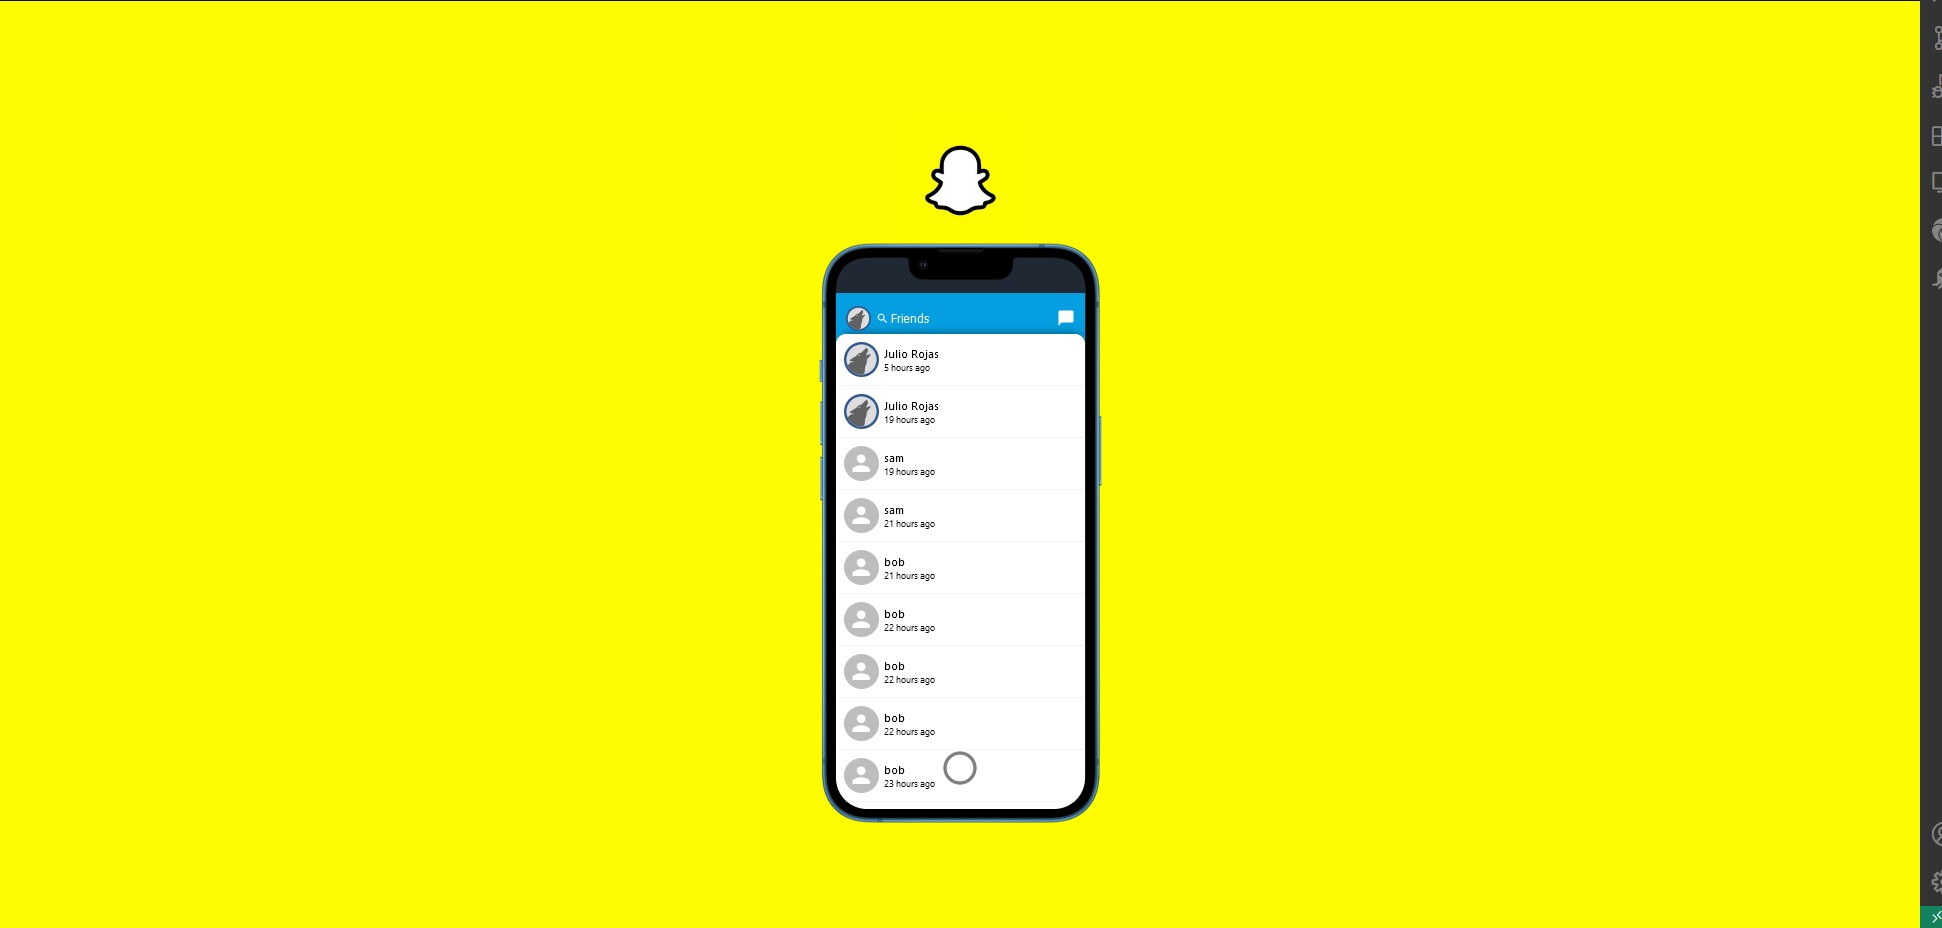
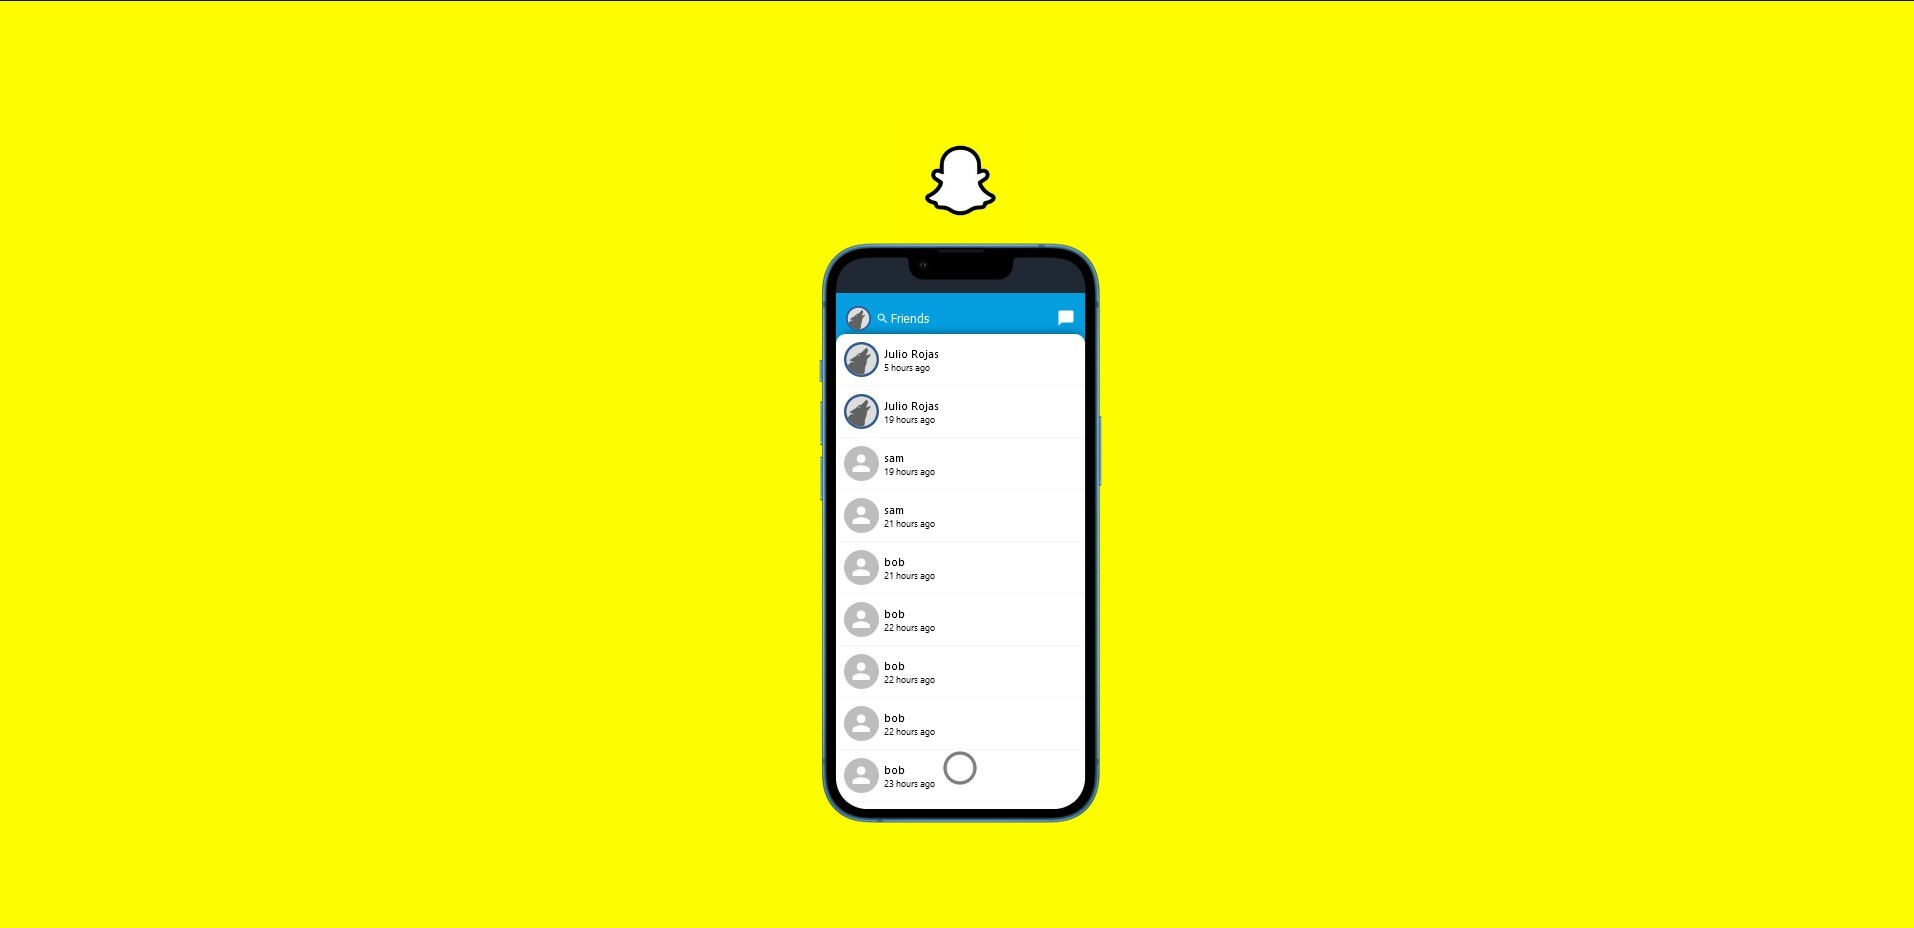
css

diff --git a/src/App.css b/src/App.css
@@ -11,34 +11,36 @@
   object-fit: contain;
   height: 125px;
 }
-.v{
-    position: relative;
-    
+.v {
+  position: relative;
 }
-.app_phone_body{
-    position: relative; 
-    z-index: 0; 
-    height:580px;
-    width: 283px;
-    user-select: none;
-    
+.app_phone_body {
+  position: relative;
+  z-index: 2;
+  height: 580px;
+  width: 283px;
+  user-select: none;
+  pointer-events: none;
+}
+
+.relative {
+  position: relative;
 }
 
 .app_body {
-    padding: 10px; 
-    max-height: 100%;
-    overflow: visible;
-
+  padding: 10px;
+  max-height: 100%;
+  overflow: visible;
 }
 
 .app_bodyBackground {
-
-    background-color: #1F2833;
-    z-index: 1;
-    margin-top: -575px;
-    margin-left: 10px;
-    height: 560px;
-    width: 270px;
-    border-radius: 40px;
-    
+  background-color: #1f2833;
+  z-index: 1;
+  top: 0;
+  position: absolute;
+  margin-top: 10px;
+  margin-left: 10px;
+  height: 560px;
+  width: 270px;
+  border-radius: 40px;
 }

diff --git a/src/App.js b/src/App.js
@@ -36,7 +36,7 @@ function App() {
         ) : (
           <>
             <img src={SnapChat2} alt="" className="app_logo" />
-            <div>
+            <div className="relative">
               <img src={Iphone13} className="app_phone_body" />
               <div className="app_bodyBackground">
                 <div className="app_body">

diff --git a/src/pages/WebcamCapture/WebcamCapture.jsx b/src/pages/WebcamCapture/WebcamCapture.jsx
@@ -70,6 +70,7 @@ const WebcamCapture = () => {
   }, [canvas.current]);
 
   if (error) {
+    // for the setError, css the heck out of it
     return <div>{error}</div>;
   }
 
